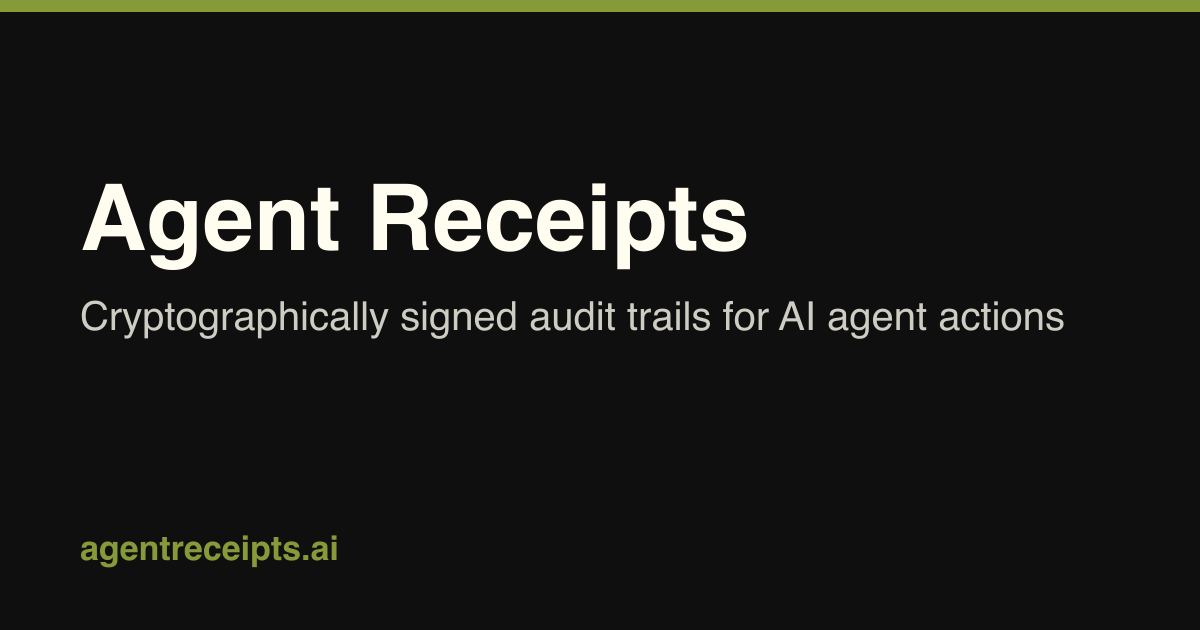
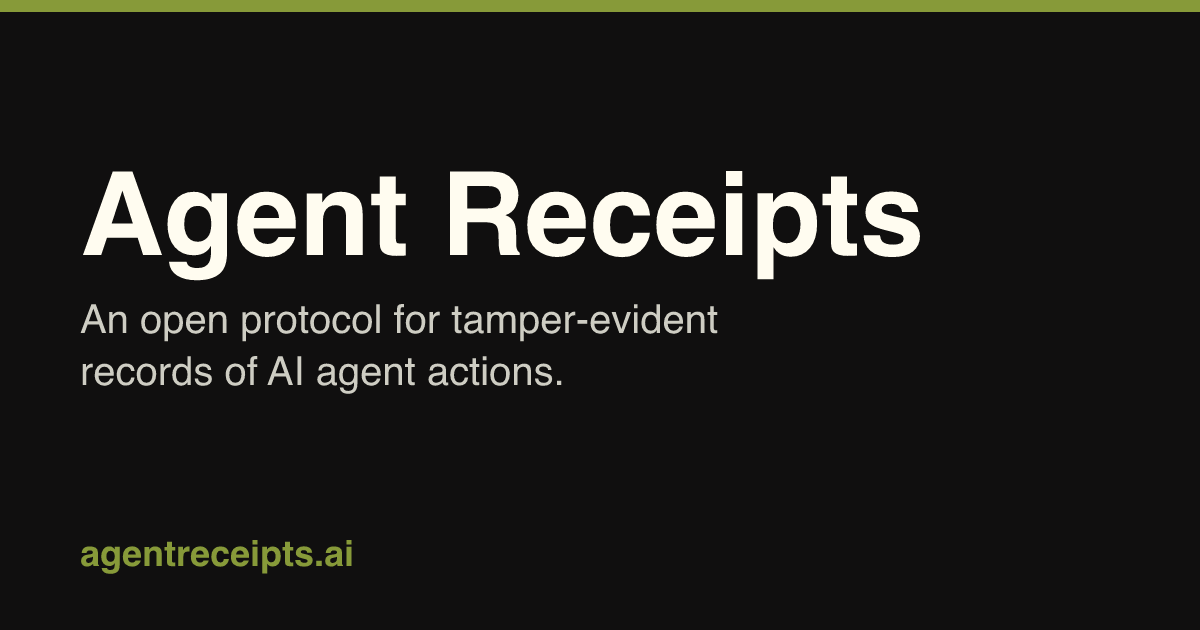
feat(site): site-wide social-card og:image metadata on both docs sites (#940)
* feat(site): add site-wide social-card og:image metadata to both docs sites

Starlight emits og:title/description/url but no og:image, so every page
shared as a bare title box on LinkedIn/X. Add a custom Head override to
both sites (agentreceipts.ai = site/, obsigna.dev = site-obsigna/) that
emits an absolute og:image, og:image:width/height/type/alt, twitter:card,
and twitter:image on every Starlight page — including 404.

- New src/components/Head.astro reads optional `ogImage` frontmatter
  (added to the docs schema in content.config.ts), resolves it to an
  absolute URL on this origin (LinkedIn drops relative refs), and upserts
  the tags into starlightRoute.head so the set stays deduplicated. Absent
  frontmatter falls back to the site's default card.
- The static og:image/twitter:* entries are removed from astro.config
  head[] (they could not be overridden per page).
- One default card per site (public/og.png), regenerated with the new
  copy, plus bespoke cards for the named share targets: each site's
  homepage, the daemon-process-separation and May-2026 landscape blog
  posts (agentreceipts.ai), and getting-started/quick-start (obsigna.dev).
  Cards are brand-matched (Flexoki black bg, green / orange accents,
  Helvetica wordmark), authored as SVG and rendered once to a committed
  PNG — no runtime image service or new build dependency.
- sync-blog.mjs strips `ogImage` from mirrored posts so obsigna.dev's blog
[…]

diff --git a/site-obsigna/src/content.config.ts b/site-obsigna/src/content.config.ts
@@ -1,7 +1,17 @@
 import { docsLoader } from "@astrojs/starlight/loaders";
 import { docsSchema } from "@astrojs/starlight/schema";
-import { defineCollection } from "astro:content";
+import { defineCollection, z } from "astro:content";
 
 export const collections = {
-  docs: defineCollection({ loader: docsLoader(), schema: docsSchema() }),
+  docs: defineCollection({
+    loader: docsLoader(),
+    // `ogImage` lets a high-value page override the default social card with a
+    // bespoke one (absolute URL or site-root-relative path). Read by the custom
+    // Head override (src/components/Head.astro).
+    schema: docsSchema({
+      extend: z.object({
+        ogImage: z.string().optional(),
+      }),
+    }),
+  }),
 };

diff --git a/site/src/content.config.ts b/site/src/content.config.ts
@@ -1,7 +1,17 @@
 import { docsLoader } from "@astrojs/starlight/loaders";
 import { docsSchema } from "@astrojs/starlight/schema";
-import { defineCollection } from "astro:content";
+import { defineCollection, z } from "astro:content";
 
 export const collections = {
-  docs: defineCollection({ loader: docsLoader(), schema: docsSchema() }),
+  docs: defineCollection({
+    loader: docsLoader(),
+    // `ogImage` lets a high-value page override the default social card with a
+    // bespoke one (absolute URL or site-root-relative path). Read by the custom
+    // Head override (src/components/Head.astro).
+    schema: docsSchema({
+      extend: z.object({
+        ogImage: z.string().optional(),
+      }),
+    }),
+  }),
 };
